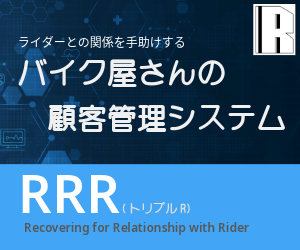
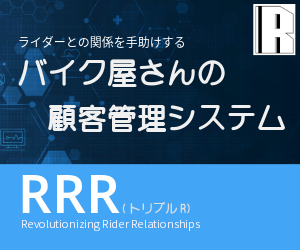
タイトル修正

Changed region(s): [[0.06, 0.868, 0.84, 0.952]]

diff --git a/index.html b/index.html
@@ -13,7 +13,8 @@
 <body>
     <header>
         <p class="title">バイク屋さんの顧客管理システム - RRR</p>
-        <p class="title-sub">Recovering for Relationship with Rider</p>
+        <p class="title-sub">Revolutionizing Rider Relationships</p>
+        <p class="title-sub">データを、ライダーとの信頼へ。</p>
     </header>
     <section id="about" class="hero">
         <div class="innerbox">
